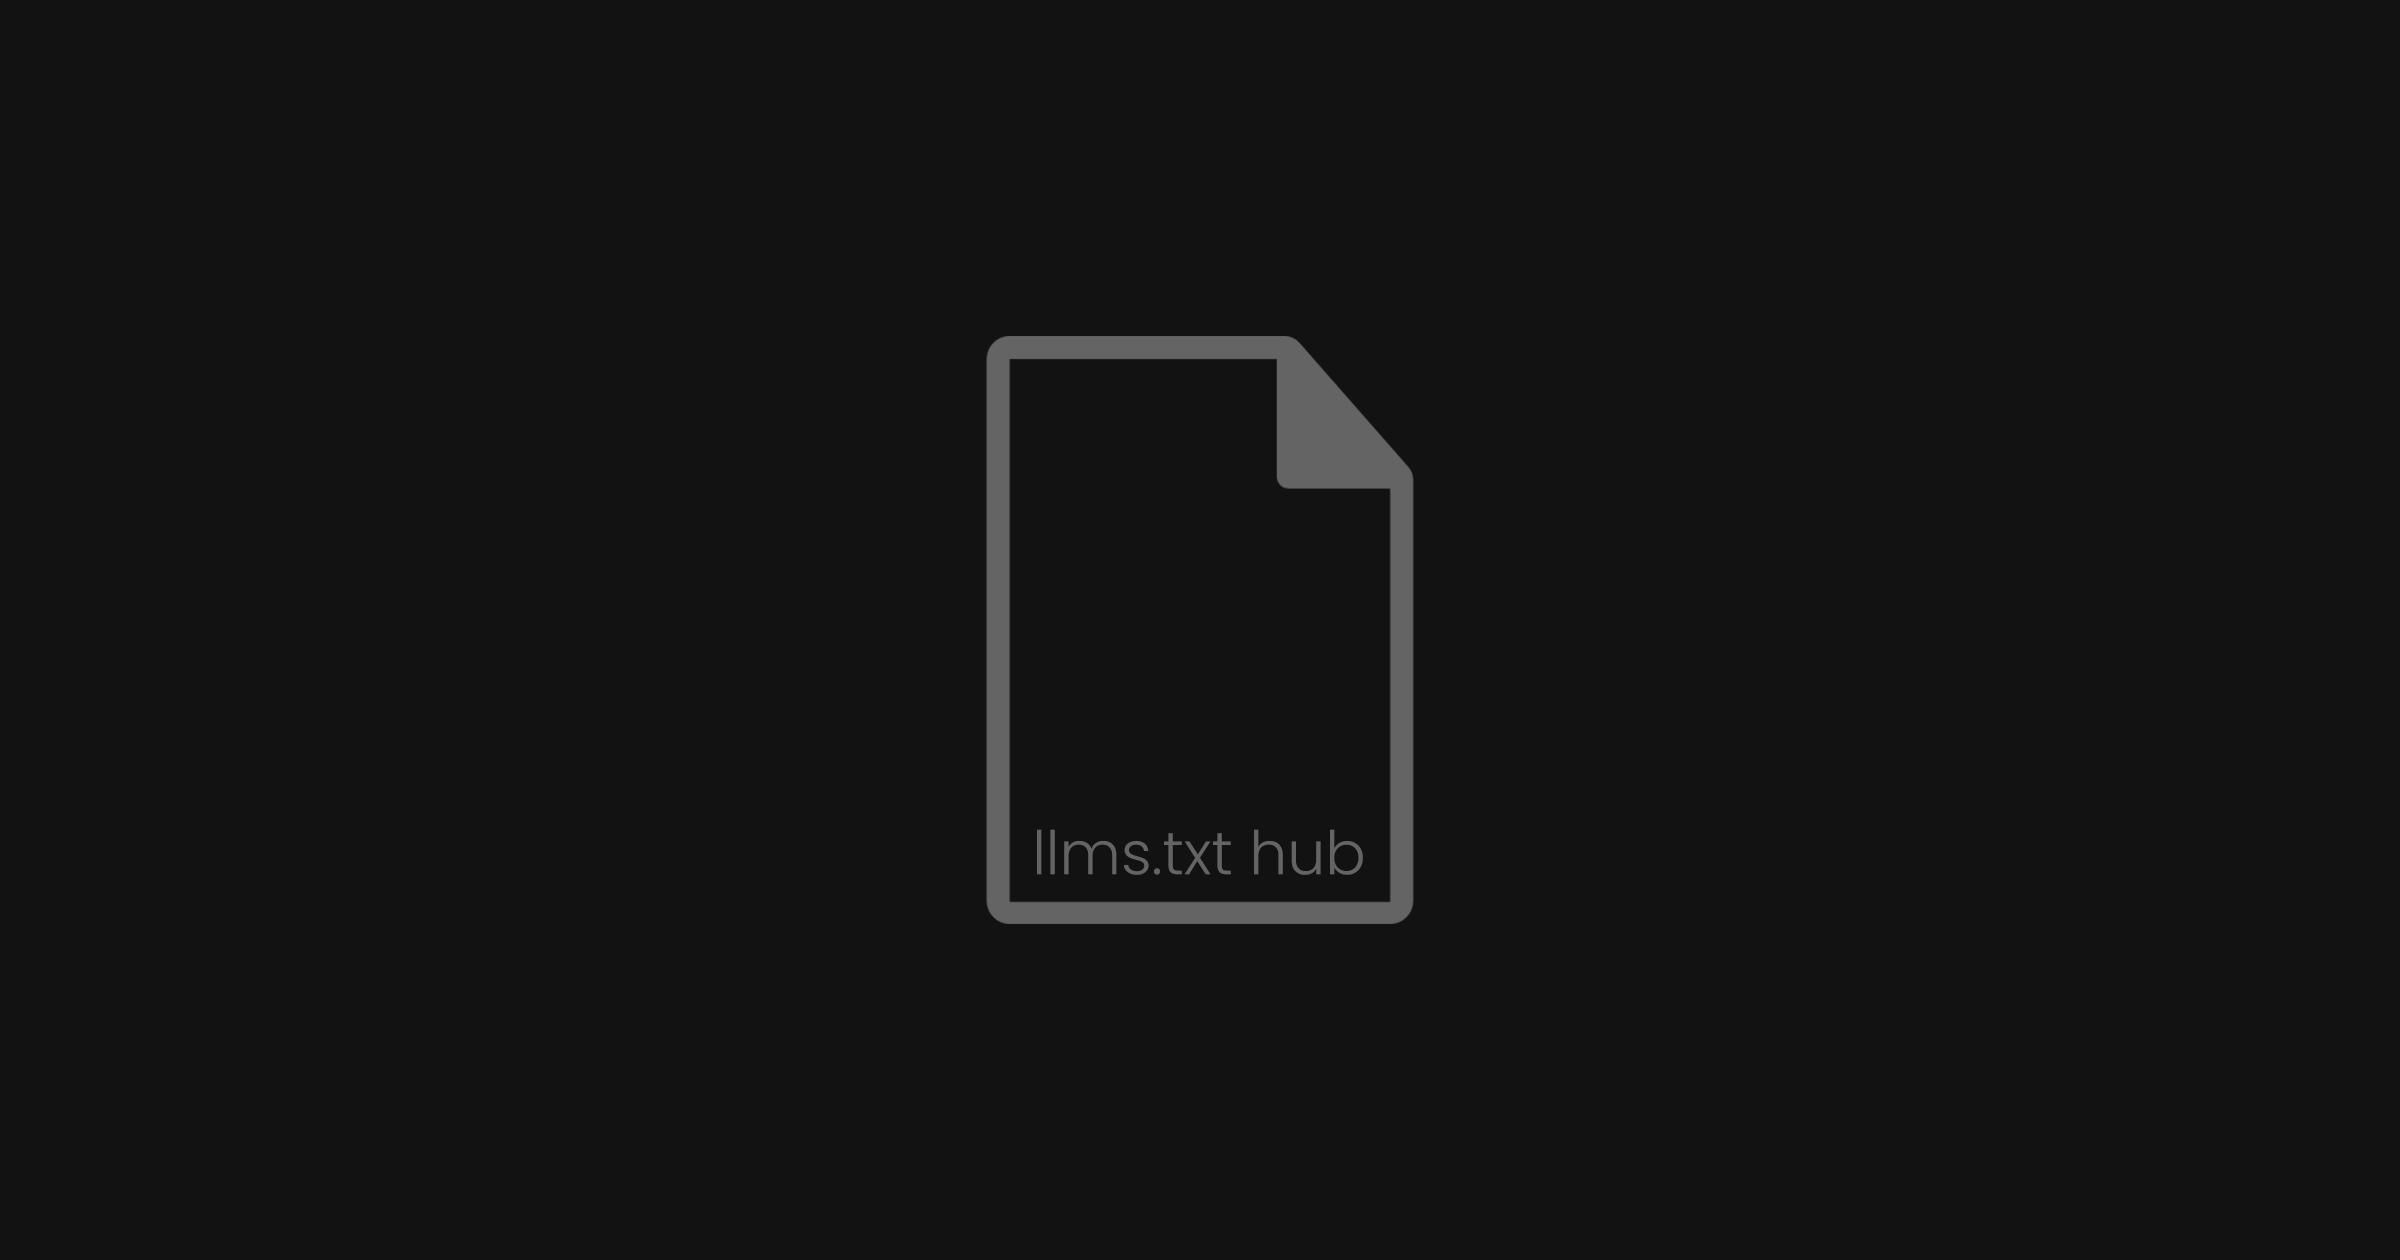
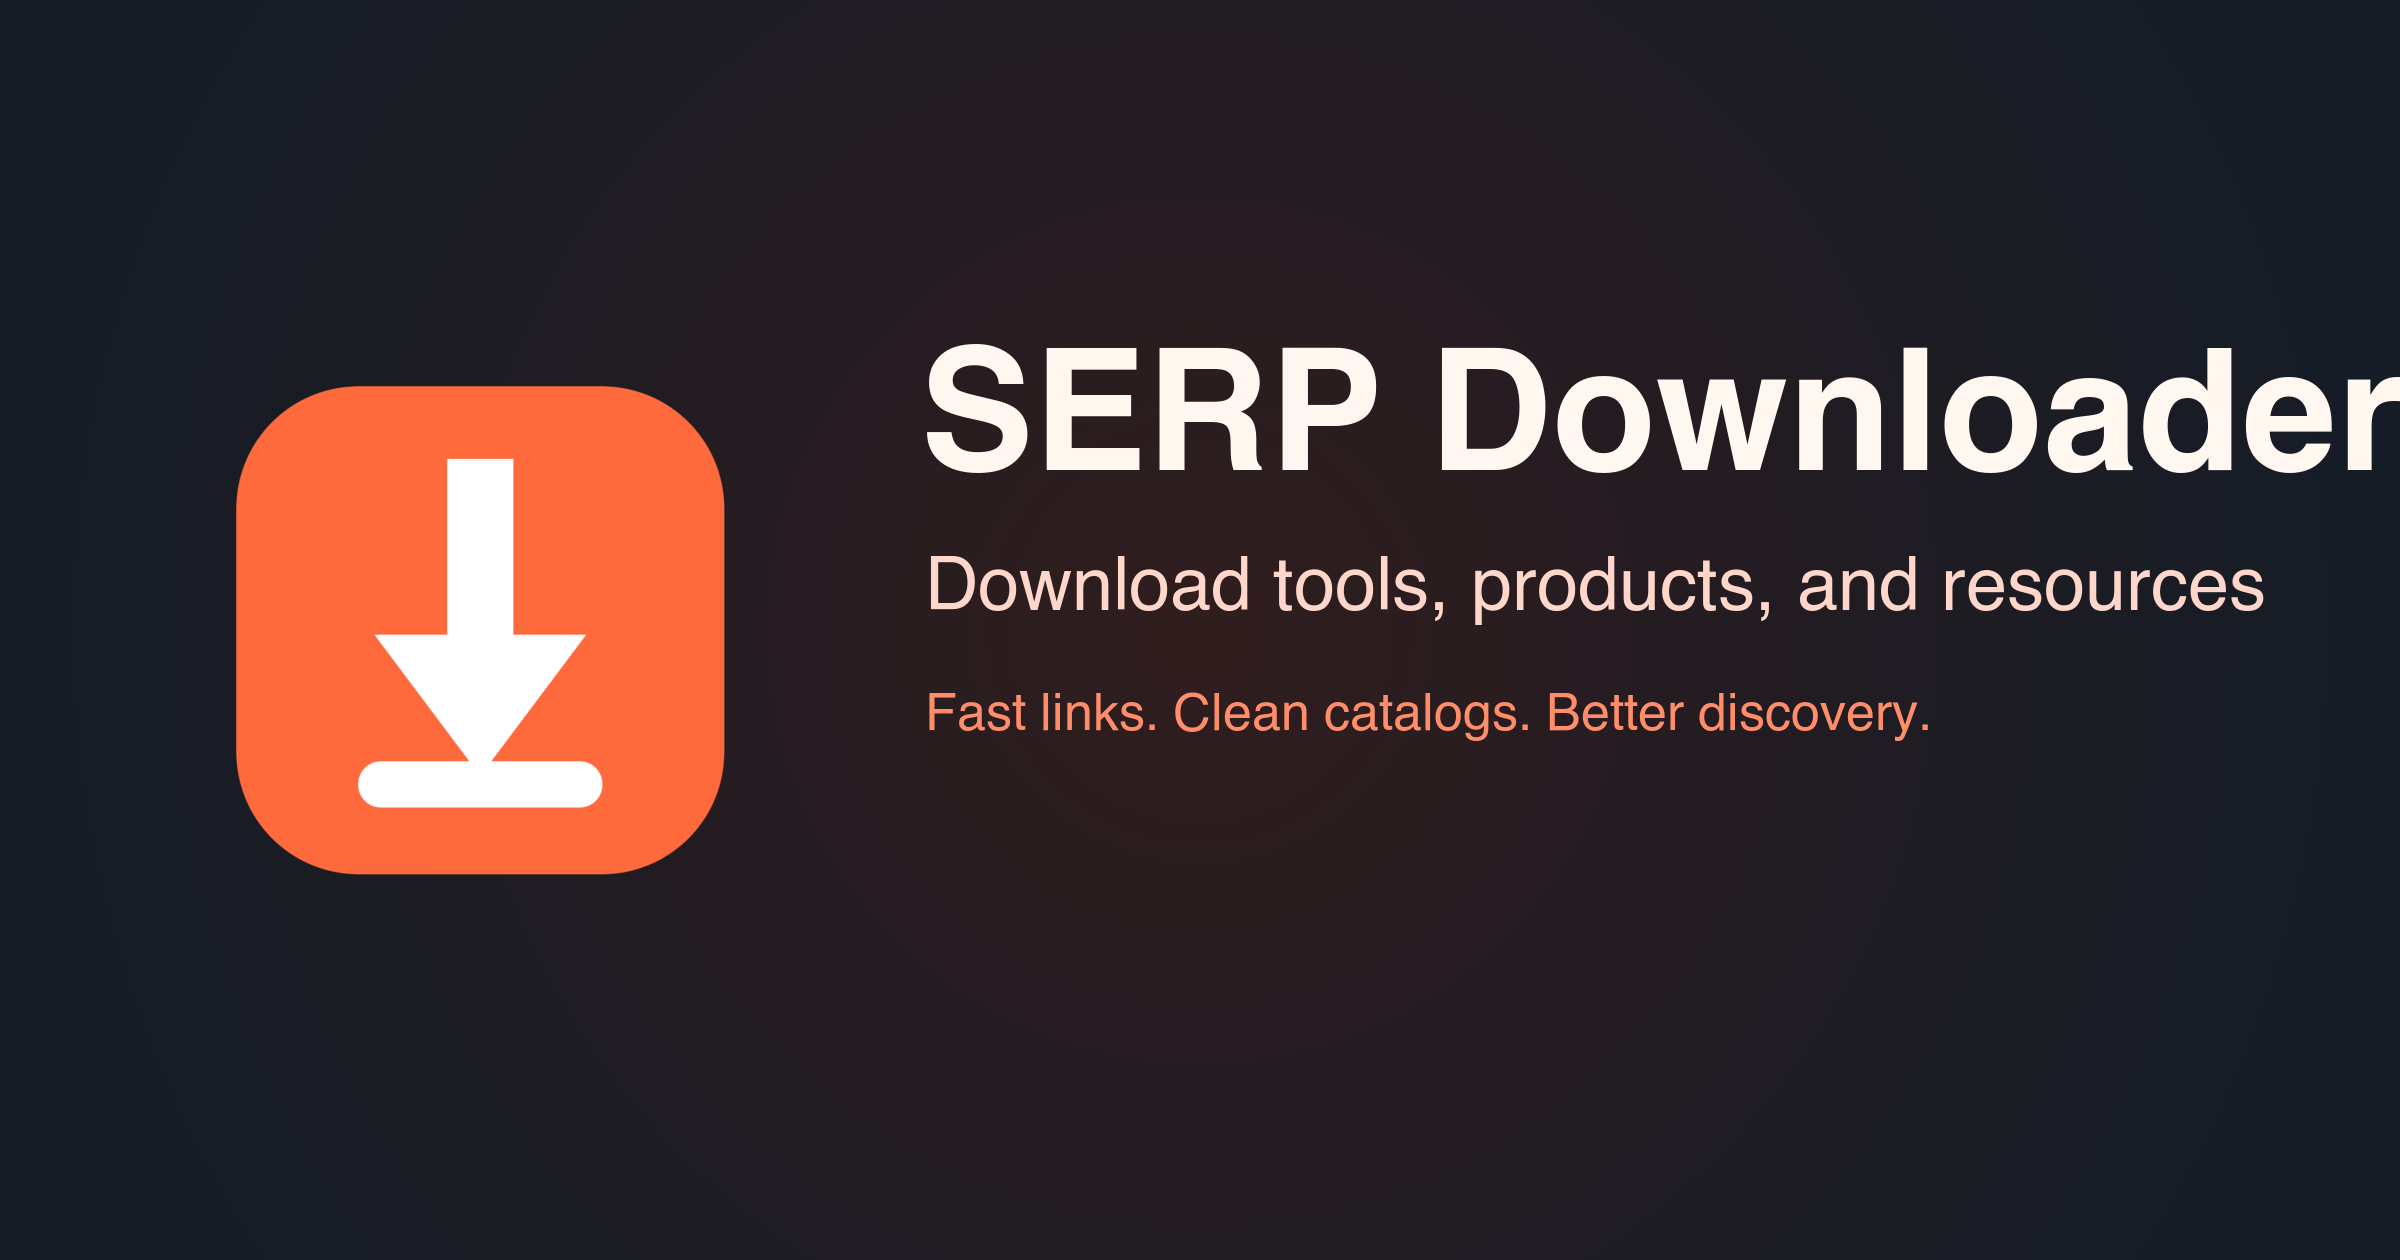
fix(branding): refresh serpdownloaders brand assets
Reason: replace stale llms.txt-era icon files with a clean SERP Downloaders asset set.

Edits:

- replace the site-owned favicon, logo, and Open Graph image
- document the asset staging and verification behavior in closeout docs

Changed region(s): [[0.375, 0.2476, 1.0, 0.7429], [0.0938, 0.2786, 0.3125, 0.7119]]

diff --git a/docs/SITE_CONFIG_REFACTOR_QA_CHECKLIST.md b/docs/SITE_CONFIG_REFACTOR_QA_CHECKLIST.md
@@ -78,7 +78,7 @@ Use this checklist after the wash pass and before calling the JSON-first MVP clo
 - [x] at least one listing detail page loads for each verified site
 - [x] search page loads and returns results
 - [x] submit page loads and shows the expected category choices
-- [ ] branding assets shown in the built site match the checked-in site assets
+- [x] branding assets shown in the built site match the checked-in site assets
 
 ## 9. If anything fails
 
@@ -111,6 +111,21 @@ Use this checklist after the wash pass and before calling the JSON-first MVP clo
   all passed. `dist/sites/serpdownloaders.com/index.html` contains `GTM-M82HC3SC`,
   `googletagmanager.com`, and `ns.html?id=GTM-M82HC3SC`; `dist/sites/default/index.html` and
   `dist/sites/serp.software/index.html` do not.
+- 2026-04-04: Replaced stale `serpdownloaders.com` brand assets in
+  `sites/serpdownloaders.com/assets/favicon.ico`, `logo.png`, and `opengraph-image.png`. Then ran
+  `pnpm validate:site -- --site serpdownloaders.com`, `pnpm build:site -- --site serpdownloaders.com`,
+  served `dist/sites/serpdownloaders.com` on `http://127.0.0.1:4322`, and verified:
+  homepage title still renders `SERP Downloaders Directory of Products and Resources`;
+  `favicon.ico`, `logo.png`, `apple-touch-icon.png`, and `opengraph-image.png` all serve the new
+  SERP Downloaders asset set from the built artifact; the built favicon hash no longer matches the
+  old starter/default favicon.
+- 2026-04-04: Deployed the refreshed `serpdownloaders.com` asset set to
+  `serpcompany/serpdownloaders.com` at commit `a4cf150`. The target repo root files now match the
+  new local hashes. Live unversioned root asset URLs are still serving the prior cached files, but
+  `https://serpdownloaders.com/favicon.ico?v=20260404`,
+  `https://serpdownloaders.com/apple-touch-icon.png?v=20260404`, and
+  `https://serpdownloaders.com/opengraph-image.png?v=20260404` all return the refreshed assets.
+  That confirms a live CDN cache lag on the old root URLs, not a bad build or deploy.
 - 2026-04-04: Local browser verification against the existing dev server at
   `http://localhost:3005` confirmed `SERP Downloaders` renders on `/` and
   `/products/123movies-downloader`, and direct HTML checks for both routes confirmed GTM is not

diff --git a/docs/knowledge/site-config.md b/docs/knowledge/site-config.md
@@ -233,6 +233,14 @@ Operational guidance:
 - prefer `local-path` for canonical long-lived assets you want versioned in the repo
 - use `url` when operators need a temporary or externally managed source, but still want the static build to stage and pin the file locally before export
 - after a successful remote-asset build, treat the staged file in `sites/<site-id>/assets/*` as the local cached copy the next build may intentionally reuse
+- branding verification should be done as a set, not one file at a time:
+  `favicon.ico`, `logo.png`, `apple-touch-icon.png`, and `opengraph-image.png`.
+  The build copies `branding.logo` into both `/logo.png` and `/apple-touch-icon.png`, so a stale
+  site logo will leak into both surfaces even if the favicon is replaced correctly.
+- for static custom-domain deploys, root asset paths such as `/favicon.ico` and `/logo.png` may
+  stay stale behind CDN caches longer than HTML or query-busted asset URLs. If a branding deploy is
+  correct in the build artifact and target repo but the live root URL still serves the previous
+  file, verify the same asset with a query string before assuming the deploy failed.
 
 ## Known Gaps
 

diff --git a/docs/IMPLEMENTATION_TRACKER.md b/docs/IMPLEMENTATION_TRACKER.md
@@ -42,6 +42,7 @@ Acceptance:
 - [ ] Run the closeout checklist for `serpdownloaders.com`
 - [x] Verify the final sitemap/robots artifact contract
 - [x] Verify site-owned GTM is present for `serpdownloaders.com` production output and absent on non-GTM sites
+- [x] Replace stale `serpdownloaders.com` favicon/logo/Open Graph assets and verify the built artifact stages them correctly
 - [x] Record real command outcomes and manual checks in the checklist
 - [ ] Run the browser closeout sweep with `agent-browser` for each verified site
 - [ ] Open explicit follow-up issues for any failed or intentionally deferred items
@@ -71,6 +72,10 @@ Notes:
   `robots.txt` is still serving the old content-signals file on the live domain even though the
   deployed target repo now contains the correct sitemap-based version that points at
   `sitemap-index.xml`.
+- Current local-only follow-up:
+  refreshed `serpdownloaders.com` branding assets are deployed, but the live unversioned root asset
+  URLs are still serving prior cached files. Query-busted asset URLs already return the refreshed
+  files, so this is now a cache-busting/invalidation concern rather than a build/deploy concern.
 - [x] Keep `sitemap-index.xml` as the canonical shipped static sitemap entrypoint while preserving
   `sitemap.xml` for direct app/runtime environments and compatibility
 - Additional confirmed live state: